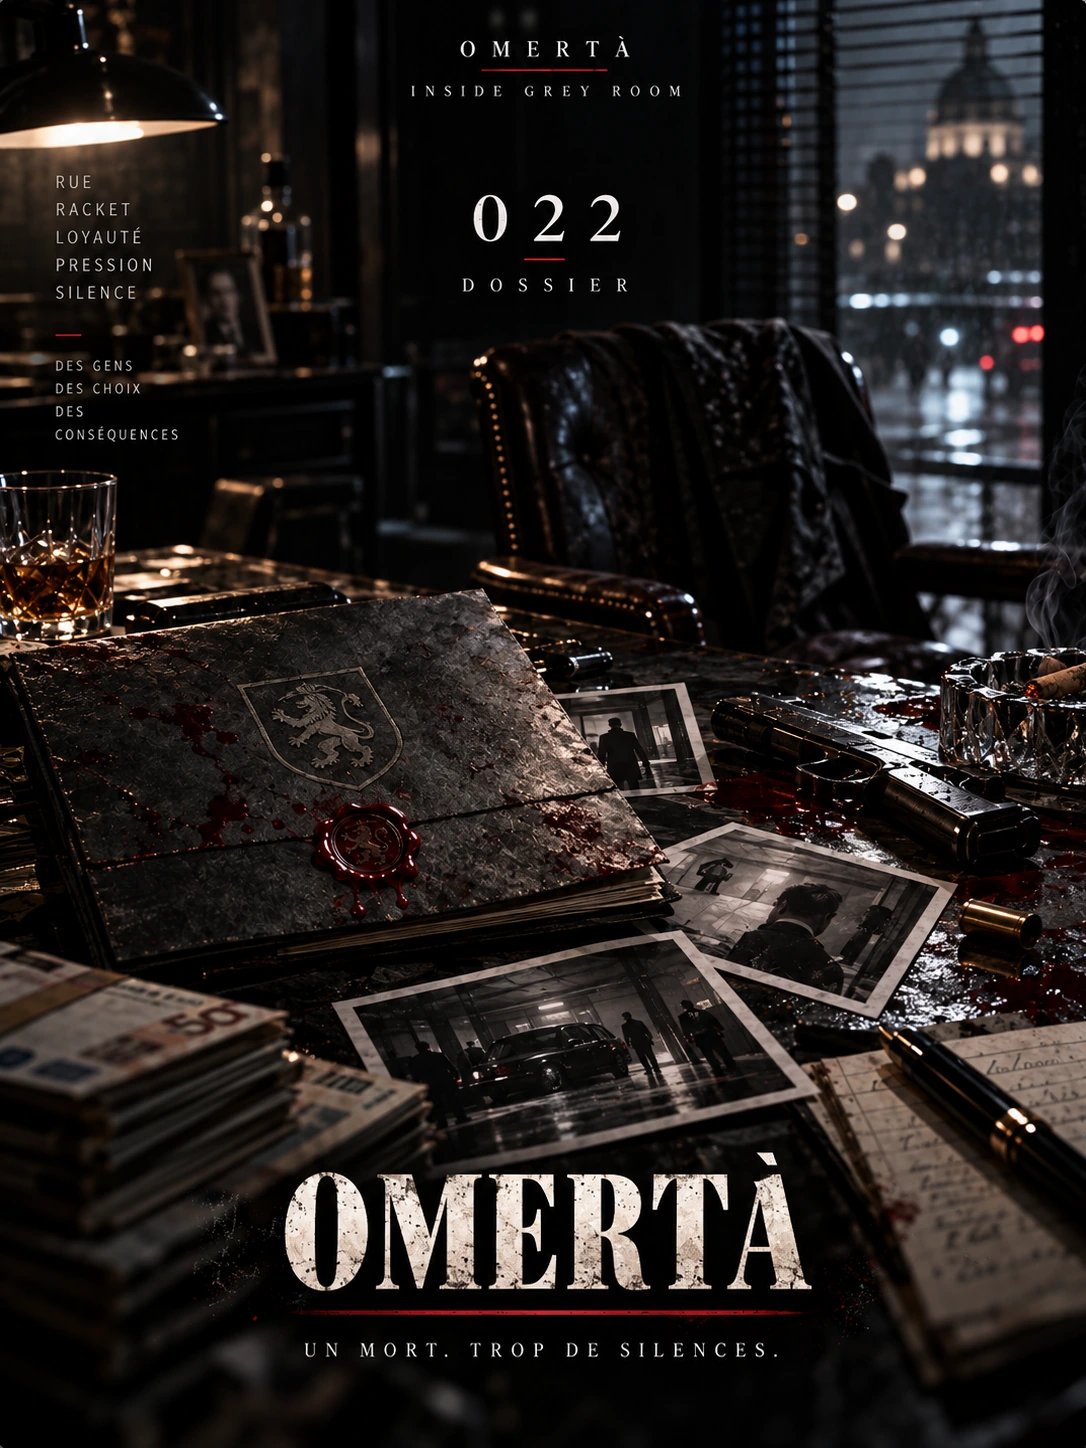
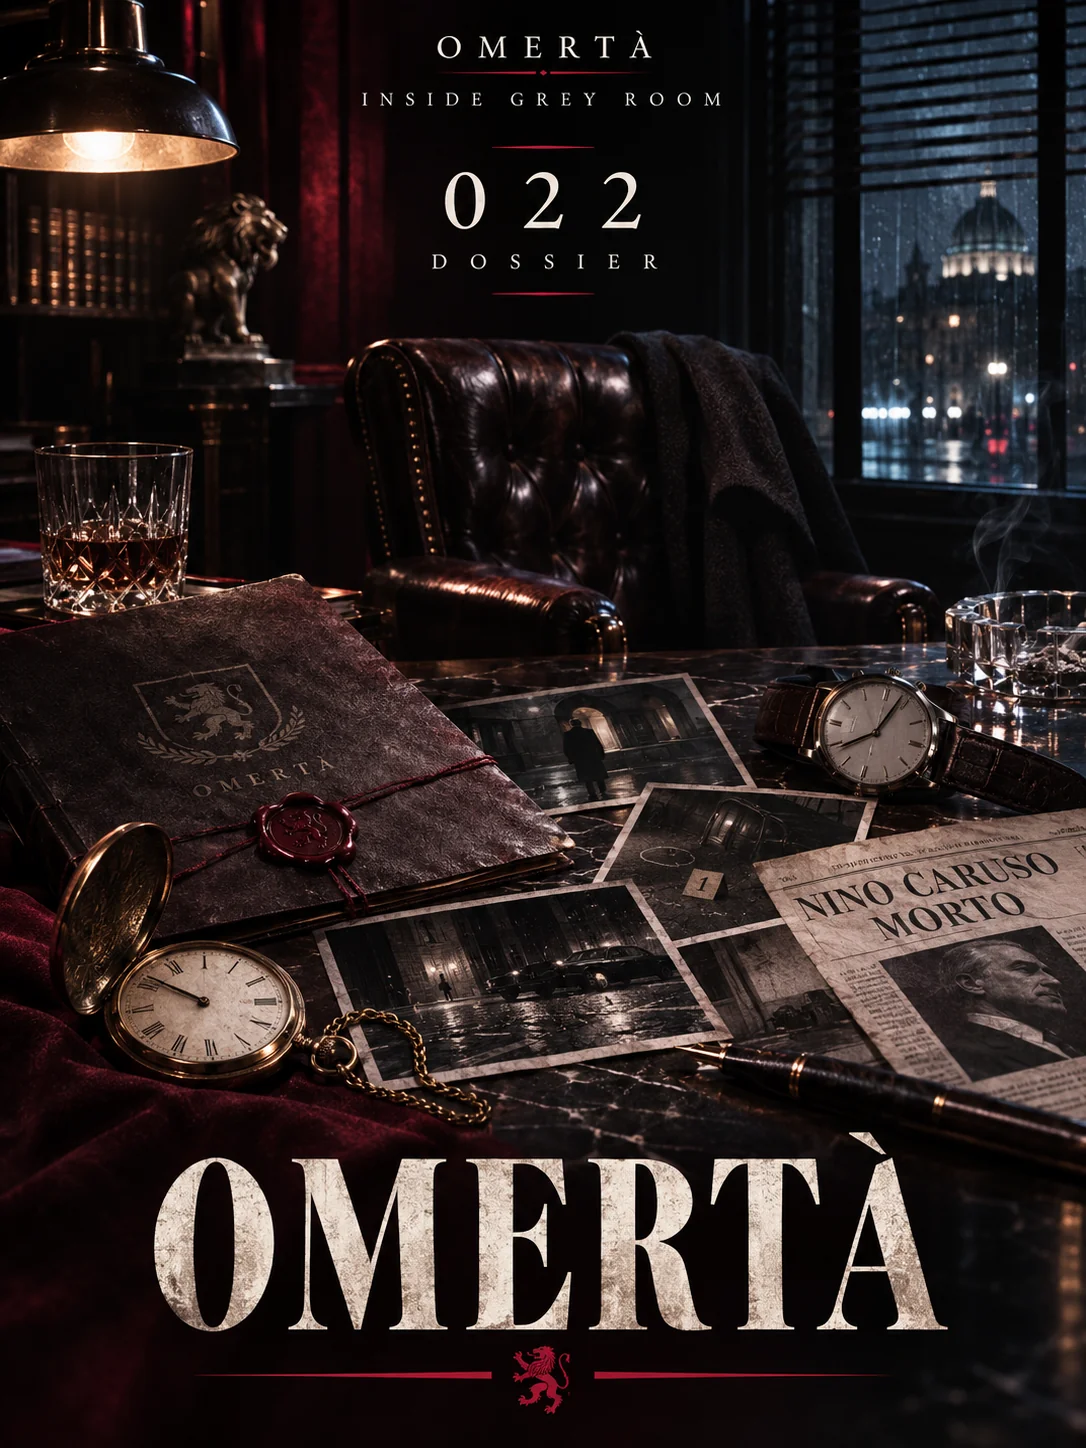
Omertà — intégrer les cinq affiches 021 à 025 (#648)
* Omertà: intégrer les affiches 021–025, cadrage plein et rafraîchissement cache Cloudflare

* test(omerta): verify matching actual poster cache versions instead of hardcoded legacy values

* test(pwa): align cache fingerprint assertion with current renderer check

diff --git a/service-worker.js b/service-worker.js
@@ -1,8 +1,8 @@
-const CACHE='igr-preclic-024-027-029-v756-20261117';
+const CACHE='igr-omerta-posters-v757-20261117';
 const SHELL=[
   '/regime-live-v13.css?v=regime-v16-rosters-20261115',
   '/catalog-descriptions-v1.css?v=v730-direct-dlc-selector-poster-fit-20261116',
-  '/catalogue-navigation-v731.css?v=v755-uniform-dlc-hooks-20261117',
+  '/catalogue-navigation-v731.css?v=omerta-posters-v757-20261117',
   '/assets/catalogue-corridor-ink-v731.svg',
   '/intro-poster-v18.css?v=v20-original-door-embedded-20261116',
   '/regime-live-v13.js?v=regime-v16-rosters-20261115',
@@ -27,14 +27,14 @@ const SHELL=[
   '/heritage-maitre-data-v34.js?v=v34.9-maitre-theme-posters','/heritage-maitre-assets-v34.js?v=v34.9-maitre-theme-posters','/heritage-maitre-v34.js?v=v34.9-maitre-theme-posters','/heritage-maitre-online-v34-4.js?v=v34.9-maitre-theme-posters','/heritage-maitre-polish-v34.js?v=v34.9-maitre-theme-posters','/heritage-maitre-mobile-v34-5.js?v=v34.9-maitre-theme-posters',
   '/language-v12.js?v=v12.22-mobile-ui','/i18n-en-v12.js?v=v12.22-mobile-ui',
   '/rules-v12.js?v=20261018-grey-room-protocol','/locale-settings-v12.js?v=v12.22-mobile-ui','/ui-polish-v12.js?v=v12.22-mobile-ui','/locale-runtime-v12-23.js?v=v12.23-locale-home',
-  '/omerta-v12.js?v=v755-uniform-dlc-hooks-20261117','/omerta-polish-v12.js?v=santoro-visual-fix-20261108-v724-role-ux-20261116','/omerta-hotfix-v12.js?v=santoro-visual-fix-20261108','/role-tree-polish-v12-29.js?v=v12.29-role-tree','/omerta-v12-30.js?v=santoro-visual-fix-20261108',
-  '/omerta-v12-39.js?v=v725-poster-native-fit-20261116','/omerta-money-intel-v1.js?v=santoro-display-audit-20261108','/omerta-santoro-verdict-v28.js?v=omerta-023-spy-v1','/omerta-023-spy-v1.js?v=omerta-023-spy-v1','/terror-v12-37.js?v=v755-uniform-dlc-hooks-20261117','/dlc-suite-v12-37.js?v=v756-preclic-024-027-029-20261117','/live-cell-v12-44.js?v=v12.44-live-cell','/dlc-profile-ui-v12-44.js?v=v12.44-ui','/dlc-invites-v12-45.js?v=v12.45-dlc-invites','/dlc-copy-v12-46.js?v=regime-v14-main-sync-20261115',
+  '/omerta-v12.js?v=v755-uniform-dlc-hooks-20261117','/omerta-polish-v12.js?v=santoro-visual-fix-20261108-v724-role-ux-20261116','/omerta-hotfix-v12.js?v=santoro-visual-fix-20261108','/role-tree-polish-v12-29.js?v=v12.29-role-tree','/omerta-v12-30.js?v=omerta-posters-v757-20261117',
+  '/omerta-v12-39.js?v=omerta-posters-v757-20261117','/omerta-money-intel-v1.js?v=santoro-display-audit-20261108','/omerta-santoro-verdict-v28.js?v=omerta-023-spy-v1','/omerta-023-spy-v1.js?v=omerta-023-spy-v1','/terror-v12-37.js?v=v755-uniform-dlc-hooks-20261117','/dlc-suite-v12-37.js?v=v756-preclic-024-027-029-20261117','/live-cell-v12-44.js?v=v12.44-live-cell','/dlc-profile-ui-v12-44.js?v=v12.44-ui','/dlc-invites-v12-45.js?v=v12.45-dlc-invites','/dlc-copy-v12-46.js?v=regime-v14-main-sync-20261115',
   '/manifest.webmanifest','/privacy.html','/terms.html','/delete-account.html','/support.html',
   '/assets/intro-v10-16.webp?v=20261018-intro-v16','/assets/home-v10-14.webp','/assets/icon-192-v9.png','/assets/icon-512-v9.png','/assets/apple-touch-icon-v9.png','/assets/favicon-v9.png',
   '/assets/heritage-cendres-01-personne-n-existe.webp?v=v13.6-heritage-premium','/assets/heritage-cendres-02-04-17.webp?v=v13.6-heritage-premium','/assets/heritage-cendres-03-la-chambre.webp?v=v13.6-heritage-premium','/assets/heritage-cendres-04-cendres.webp?v=v13.6-heritage-premium','/assets/heritage-cendres-05-point-zero.webp?v=v13.6-heritage-premium',
   '/assets/heritage-kuroi-01-l-oyabun.webp?v=v13.6-heritage-premium','/assets/heritage-kuroi-02-giri.webp?v=v13.6-heritage-premium','/assets/heritage-kuroi-03-les-mains-sales.webp?v=v13.6-heritage-premium','/assets/heritage-kuroi-04-la-dette.webp?v=v13.6-heritage-premium','/assets/heritage-kuroi-05-le-conseil.webp?v=v13.6-heritage-premium',
   '/assets/heritage-maitre-01-le-client-final.webp?v=v34.9-maitre-theme-posters','/assets/heritage-maitre-02-le-deal-final.webp?v=v34.9-maitre-theme-posters','/assets/heritage-maitre-03-deux-choix-final.webp?v=v34.9-maitre-theme-posters','/assets/heritage-maitre-04-le-proces-final.webp?v=v34.9-maitre-theme-posters','/assets/heritage-maitre-05-l-honneur-final.webp?v=v34.9-maitre-theme-posters',
-  '/assets/omerta-021-l-enveloppe.webp?v=12.37-final','/assets/omerta-022-omerta.webp?v=12.37-final','/assets/omerta-023-la-table.webp?v=12.37-final','/assets/omerta-024-il-pentito.webp?v=12.37-final','/assets/omerta-025-il-don.webp?v=12.37-final',
+  '/assets/omerta-021-l-enveloppe.webp?v=omerta-posters-v757-20261117','/assets/omerta-022-omerta.webp?v=omerta-posters-v757-20261117','/assets/omerta-023-la-table.webp?v=omerta-posters-v757-20261117','/assets/omerta-024-il-pentito.webp?v=omerta-posters-v757-20261117','/assets/omerta-025-il-don.webp?v=omerta-posters-v757-20261117',
   '/assets/terror-026-la-ville-tombe-v750.webp?v=v751-terreur-fullbleed','/assets/terror-027-la-zone-rouge-v750.webp?v=v751-terreur-fullbleed','/assets/terror-028-dernier-perimetre-v750.webp?v=v751-terreur-fullbleed',
   '/assets/cartel-029-poster-v2.svg?v=v20261018-cartel-clean-scene-v6','/assets/cartel-030-poster-v2.svg?v=v20261018-cartel-clean-scene-v6','/assets/cartel-031-poster-v2.svg?v=v20261018-cartel-clean-scene-v6',
   '/assets/regime-032-les-archives-du-palais.webp?v=v753-regime-silver-fullbleed-20261117','/assets/regime-033-la-dynastie.webp?v=v753-regime-silver-fullbleed-20261117','/assets/regime-034-les-noms-quils-portaient.webp?v=v753-regime-silver-fullbleed-20261117'

diff --git a/catalogue-navigation-v731.css b/catalogue-navigation-v731.css
@@ -1064,3 +1064,38 @@ body.igr-scenario-browser.igr-catalogue-scrolled:has(#app .page-create-v10-13)
     --igr-card-line:1.25!important;
   }
 }
+
+/* v757 — OMERTÀ 021–025: one true full-bleed 3:4 poster layer.
+   No blurred duplicate, vignette, pseudo-overlay, stretch or dark matte.
+   Preserve the shared compact card sizes and all other DLC identities. */
+#app .page-create-v10-13 .scenario-list-v10-13
+  > article.scenario.scenario--art.scenario--compact.omerta-scenario
+  > .scenario-thumb.compact{
+  background:transparent!important;
+  overflow:hidden!important;
+}
+#app .page-create-v10-13 .scenario-list-v10-13
+  > article.scenario.scenario--art.scenario--compact.omerta-scenario
+  > .scenario-thumb.compact::before,
+#app .page-create-v10-13 .scenario-list-v10-13
+  > article.scenario.scenario--art.scenario--compact.omerta-scenario
+  > .scenario-thumb.compact::after{
+  content:none!important;
+  display:none!important;
+  background:none!important;
+  filter:none!important;
+  box-shadow:none!important;
+}
+#app .page-create-v10-13 .scenario-list-v10-13
+  > article.scenario.scenario--art.scenario--compact.omerta-scenario
+  > .scenario-thumb.compact > img.igr-poster-full{
+  display:block!important;
+  width:100%!important;
+  height:100%!important;
+  object-fit:cover!important;
+  object-position:center center!important;
+  transform:none!important;
+  filter:none!important;
+  -webkit-mask-image:none!important;
+  mask-image:none!important;
+}

diff --git a/index.html b/index.html
@@ -49,7 +49,7 @@
   <link rel="stylesheet" href="analyst-profiling-v700.css?v=v701-progressive-psychology">
   <link rel="stylesheet" href="regime-live-v13.css?v=regime-v16-rosters-20261115">
   <link rel="stylesheet" href="catalog-descriptions-v1.css?v=v730-direct-dlc-selector-poster-fit-20261116">
-  <link rel="stylesheet" href="catalogue-navigation-v731.css?v=v755-uniform-dlc-hooks-20261117">
+  <link rel="stylesheet" href="catalogue-navigation-v731.css?v=omerta-posters-v757-20261117">
   <link rel="stylesheet" href="intro-poster-v18.css?v=v20-original-door-embedded-20261116">
   <link rel="stylesheet" href="terror-lobby-unified-v1.css?v=terror-lobby-modes-v2-20261116">
 </head>
@@ -105,8 +105,8 @@
   <script src="omerta-polish-v12.js?v=santoro-visual-fix-20261108-v724-role-ux-20261116"></script>
   <script src="omerta-hotfix-v12.js?v=santoro-visual-fix-20261108"></script>
   <script src="role-tree-polish-v12-29.js?v=v12.29-role-tree"></script>
-  <script src="omerta-v12-30.js?v=santoro-visual-fix-20261108"></script>
-  <script src="omerta-v12-39.js?v=v725-poster-native-fit-20261116"></script>
+  <script src="omerta-v12-30.js?v=omerta-posters-v757-20261117"></script>
+  <script src="omerta-v12-39.js?v=omerta-posters-v757-20261117"></script>
   <script src="terror-v12-37.js?v=v755-uniform-dlc-hooks-20261117"></script>
   <script src="dlc-suite-v12-37.js?v=v756-preclic-024-027-029-20261117"></script>
   <script src="live-cell-v12-44.js?v=v12.44-live-cell"></script>

diff --git a/omerta-v12-37.js b/omerta-v12-37.js
@@ -5,11 +5,11 @@
 
   const OMERTA_IDS = new Set(['021','022','023','024','025']);
   const ART = Object.freeze({
-    '021':'assets/omerta-021-l-enveloppe.webp?v=12.37-final',
-    '022':'assets/omerta-022-omerta.webp?v=12.37-final',
-    '023':'assets/omerta-023-la-table.webp?v=12.37-final',
-    '024':'assets/omerta-024-il-pentito.webp?v=12.37-final',
-    '025':'assets/omerta-025-il-don.webp?v=12.37-final'
+    '021':'assets/omerta-021-l-enveloppe.webp?v=omerta-posters-v757-20261117',
+    '022':'assets/omerta-022-omerta.webp?v=omerta-posters-v757-20261117',
+    '023':'assets/omerta-023-la-table.webp?v=omerta-posters-v757-20261117',
+    '024':'assets/omerta-024-il-pentito.webp?v=omerta-posters-v757-20261117',
+    '025':'assets/omerta-025-il-don.webp?v=omerta-posters-v757-20261117'
   });
   const DRAW_MIN_MS = 620;
   const DRAW_RESULT_MS = 760;

diff --git a/omerta-v12-35.js b/omerta-v12-35.js
@@ -5,11 +5,11 @@
 
   const OMERTA_IDS = new Set(['021','022','023','024','025']);
   const ART = Object.freeze({
-    '021':'assets/omerta-021-l-enveloppe.webp?v=12.35-hq',
-    '022':'assets/omerta-022-omerta.webp?v=12.35-hq',
-    '023':'assets/omerta-023-la-table.webp?v=12.35-hq',
-    '024':'assets/omerta-024-il-pentito.webp?v=12.35-hq',
-    '025':'assets/omerta-025-il-don.webp?v=12.35-hq'
+    '021':'assets/omerta-021-l-enveloppe.webp?v=omerta-posters-v757-20261117',
+    '022':'assets/omerta-022-omerta.webp?v=omerta-posters-v757-20261117',
+    '023':'assets/omerta-023-la-table.webp?v=omerta-posters-v757-20261117',
+    '024':'assets/omerta-024-il-pentito.webp?v=omerta-posters-v757-20261117',
+    '025':'assets/omerta-025-il-don.webp?v=omerta-posters-v757-20261117'
   });
   const DRAW_MIN_MS = 620;
   const DRAW_RESULT_MS = 760;

diff --git a/omerta-v12-39.js b/omerta-v12-39.js
@@ -5,11 +5,11 @@
 
   const OMERTA_IDS = new Set(['021','022','023','024','025']);
   const ART = Object.freeze({
-    '021':'assets/omerta-021-l-enveloppe.webp?v=12.37-final',
-    '022':'assets/omerta-022-omerta.webp?v=12.37-final',
-    '023':'assets/omerta-023-la-table.webp?v=12.37-final',
-    '024':'assets/omerta-024-il-pentito.webp?v=12.37-final',
-    '025':'assets/omerta-025-il-don.webp?v=12.37-final'
+    '021':'assets/omerta-021-l-enveloppe.webp?v=omerta-posters-v757-20261117',
+    '022':'assets/omerta-022-omerta.webp?v=omerta-posters-v757-20261117',
+    '023':'assets/omerta-023-la-table.webp?v=omerta-posters-v757-20261117',
+    '024':'assets/omerta-024-il-pentito.webp?v=omerta-posters-v757-20261117',
+    '025':'assets/omerta-025-il-don.webp?v=omerta-posters-v757-20261117'
   });
 
   const DRAW_MIN_MS = 620;

diff --git a/omerta-v12-30.js b/omerta-v12-30.js
@@ -7,11 +7,11 @@
   const IDS=['021','022','023','024','025'];
   const OMERTA=new Set(IDS);
   const ART={
-    '021':'assets/omerta-021-l-enveloppe.webp?v=12.32',
-    '022':'assets/omerta-022-omerta.webp?v=12.32',
-    '023':'assets/omerta-023-la-table.webp?v=12.32',
-    '024':'assets/omerta-024-il-pentito.webp?v=12.32',
-    '025':'assets/omerta-025-il-don.webp?v=12.32'
+    '021':'assets/omerta-021-l-enveloppe.webp?v=omerta-posters-v757-20261117',
+    '022':'assets/omerta-022-omerta.webp?v=omerta-posters-v757-20261117',
+    '023':'assets/omerta-023-la-table.webp?v=omerta-posters-v757-20261117',
+    '024':'assets/omerta-024-il-pentito.webp?v=omerta-posters-v757-20261117',
+    '025':'assets/omerta-025-il-don.webp?v=omerta-posters-v757-20261117'
   };
   const DRAW_MIN_MS=560;
   const DRAW_FINAL_MS=760;
